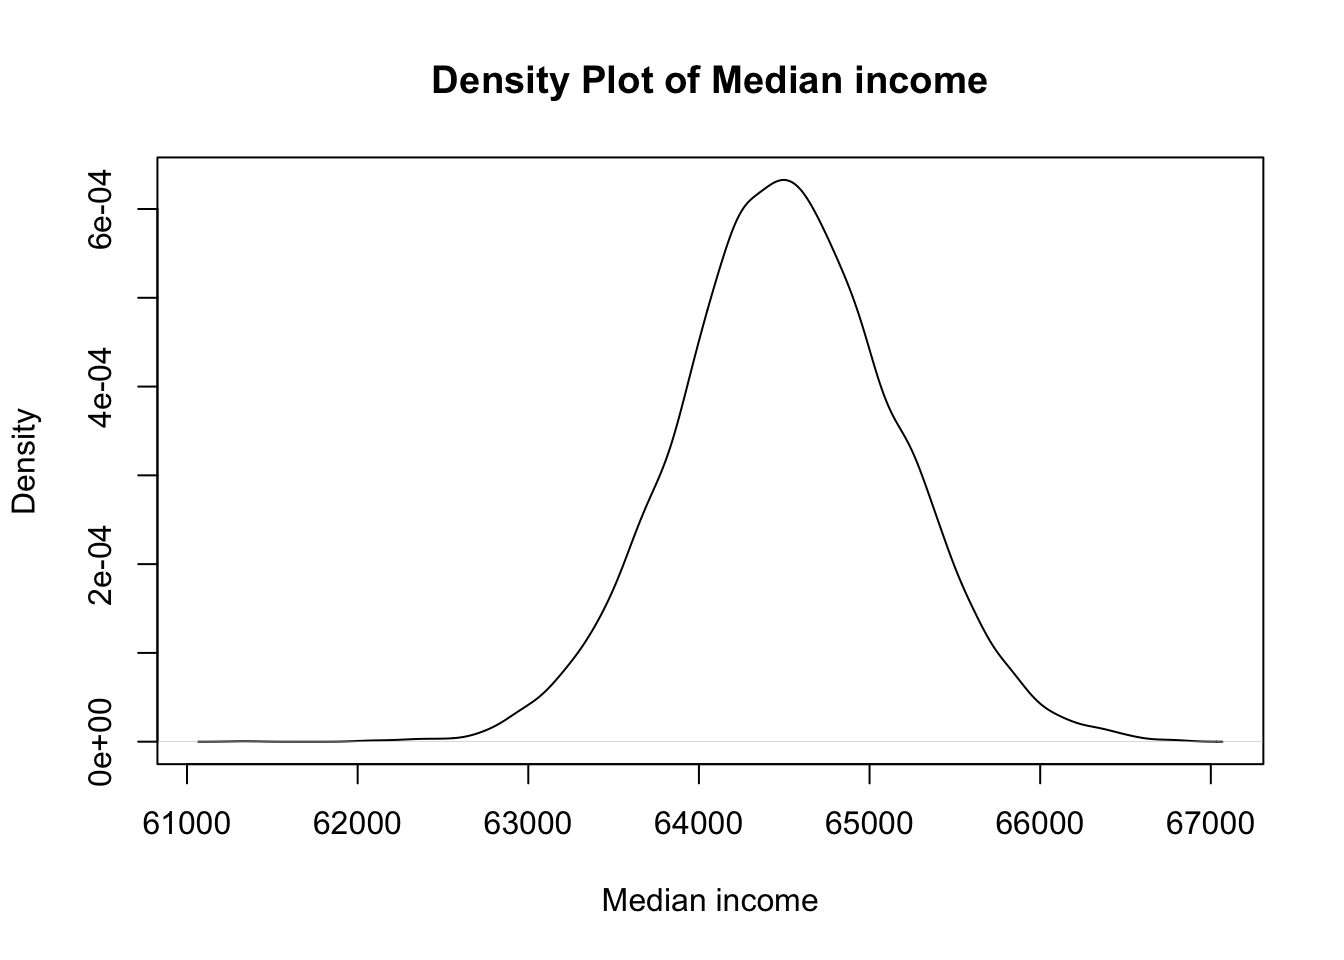
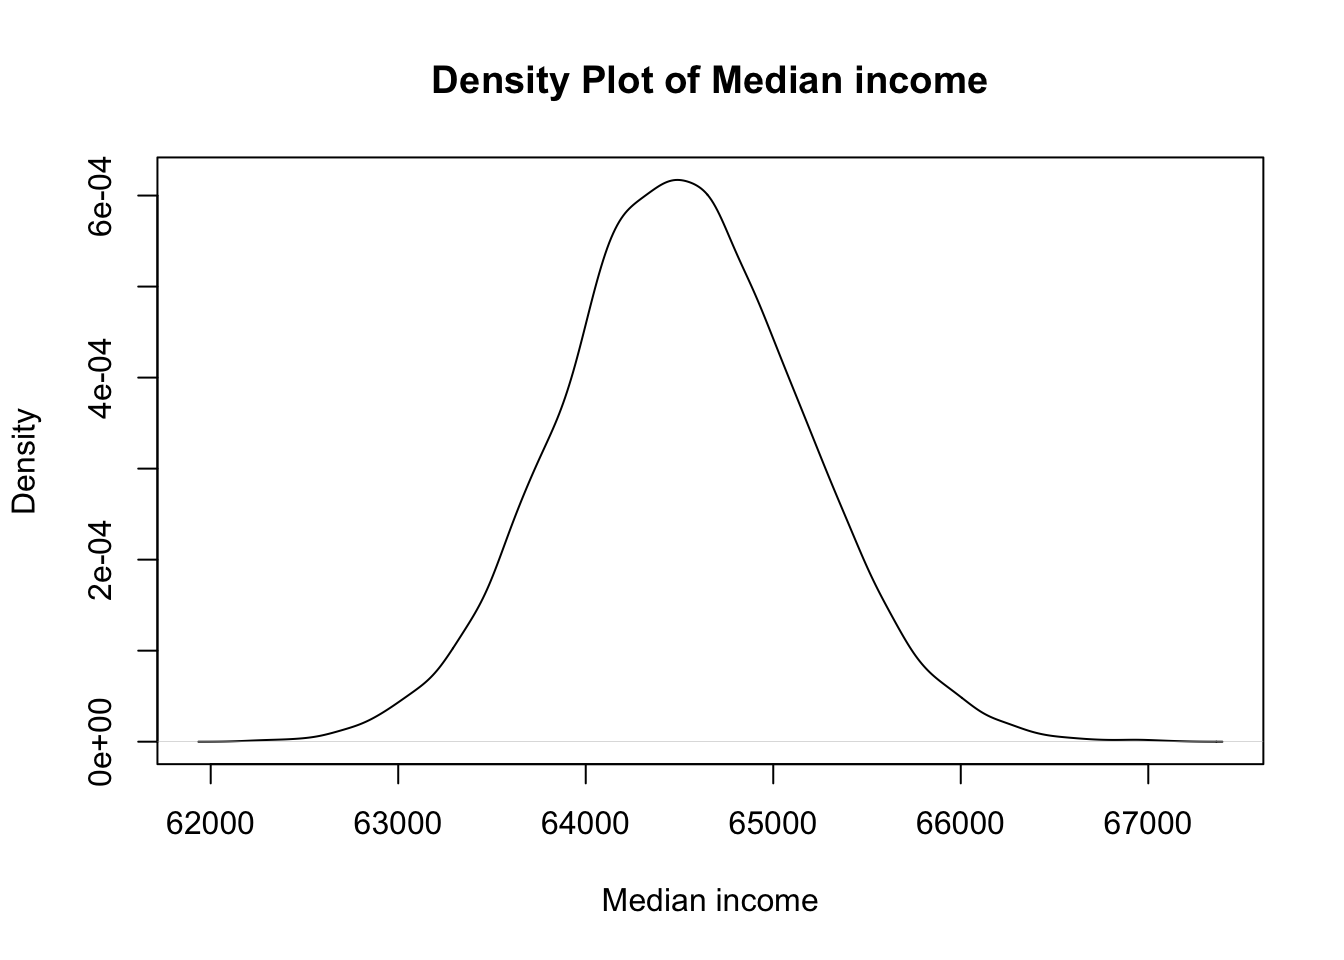
712245 pyten

diff --git a/docs/Education technology/skill.html b/docs/Education technology/skill.html
@@ -1753,77 +1753,31 @@ cookieconsent.run({
 </header>
 
 
-<div class="callout callout-style-default callout-tip callout-titled">
-<div class="callout-header d-flex align-content-center">
-<div class="callout-icon-container">
-<i class="callout-icon"></i>
-</div>
-<div class="callout-title-container flex-fill">
-Tip
-</div>
-</div>
-<div class="callout-body-container callout-body">
-<p>An enquiry in to Doto’s 5 step and Peyton’s 4 step methods</p>
-</div>
-</div>
-<p>Acquisition of <code>procedures skills</code> is an important element if not the most important in medical education. Traditionally <code>procedures skills</code> are taught using a ‘‘see one - do one’’ approach. This is referred to as Halsted’s teaching approach, which is based on the surgeon <code>Halsted (1904)</code>. Recently two new teaching approaches for the acquisition of procedural skills were described.</p>
-<p>A stepwise <code>Skill</code> teaching approach was presented by George in the meeting of American College of Surgeons, 1997 and later published by George &amp; Doto in 2001. Originally, it was developed as an educational technique to support the American College of Surgeon’s Advanced Trauma Life Support course. <span style="color: blue">George and Doto</span> used five steps. They based their teaching approach on Simpson’s taxonomy of the psychomotor domain (Simpson, 1966) . The steps are</p>
-<div class="callout callout-style-default callout-note callout-titled">
-<div class="callout-header d-flex align-content-center">
-<div class="callout-icon-container">
-<i class="callout-icon"></i>
-</div>
-<div class="callout-title-container flex-fill">
-Simpson
-</div>
-</div>
-<div class="callout-body-container callout-body">
-<ul>
-<li>Overview: Why and how the skill is important</li>
-<li>demonstration</li>
-<li>The preceptor then repeats the procedure</li>
-<li>Students talk through the skill</li>
-<li>performance.</li>
-</ul>
-</div>
-</div>
-<p>If students have a problem learning a skill, the preceptor will need to identify which of the following reasons may be underlying their performance deficit.</p>
-<ul>
-<li><p>Learner Trait Ability</p>
-<blockquote class="blockquote">
-<p>Learner trait ability is the inherent inability of the learner to perform the task because the learner may not possess the strength, fine motor coordination, or the fine motor skills necessary to do the task.</p>
-</blockquote></li>
-<li><p>Inadequate/Inappropriate Task Description and/or Demonstration</p></li>
-<li><p>Imprinting of Previous Incorrect or Obsolete Performance</p></li>
-<li><p>Improper Correction/ Reinforcement</p></li>
-<li><p>Affective Factors</p></li>
-<li><p>Inaccurate Learner Perception of Performance</p></li>
-</ul>
-<p>If the preceptor recognizes any of these problems, corrective actions can be initiated. Skill teaching need not be a time-intensive process if the preceptor will learn this quick and easy five-step method. While going through these five steps may seem lengthy, the result is that <code>the preceptor will spend less time observing and corrrecting performance problems and will ensure a better learning environment.</code></p>
-<p>Peyton’s teaching approach is also a stepwise method with following four steps: :</p>
-<div class="callout callout-style-default callout-note callout-titled">
-<div class="callout-header d-flex align-content-center">
-<div class="callout-icon-container">
-<i class="callout-icon"></i>
-</div>
-<div class="callout-title-container flex-fill">
-Peyton
-</div>
-</div>
-<div class="callout-body-container callout-body">
-<ul>
-<li>demonstration</li>
-<li>deconstruction</li>
-<li>comprehension and</li>
-<li>performance.</li>
-</ul>
-</div>
-</div>
-<p>Within Peyton’s teaching approach, two of the five steps are collated into a single step.</p>
-<div class="quarto-video ratio ratio-16x9"><iframe data-external="1" src="https://www.youtube.com/embed/iXe1btHlgLQ" title="" frameborder="0" allow="accelerometer; autoplay; clipboard-write; encrypted-media; gyroscope; picture-in-picture" allowfullscreen=""></iframe></div>
-<p><strong>Video showing Mr.&nbsp;J.W. Rodney Peyton FRCS an accomplished <code>consultant trauma surgeon</code>, author and trainer talking about his concepts.</strong></p>
+<p>Acquisition of procedural skills is a critical element in medical education. Traditionally, procedural skills are taught using a ‘‘see one - do one’’ approach, based on the Halsted’s teaching model (1904). Recently, two new teaching methods for the acquisition of procedural skills have been described:</p>
+<section id="george-and-dotos-5-step-method" class="level4">
+<h4 class="anchored" data-anchor-id="george-and-dotos-5-step-method">George and Doto’s 5-Step Method:</h4>
+<ol type="1">
+<li><strong>Overview</strong>: Explains why and how the skill is important.</li>
+<li><strong>Demonstration</strong>: The preceptor performs the procedure.</li>
+<li><strong>Students Talk Through the Skill</strong>: The learner verbalizes the steps involved in the procedure.</li>
+<li><strong>Performance</strong>: The learner performs the procedure under supervision.</li>
+<li><strong>Assessment of Performance</strong>: Identifies issues affecting learner’s performance, such as inherent ability, inappropriate task description, previous incorrect techniques, and affective factors. Corrective actions can be initiated based on the identified issues.</li>
+</ol>
+<p><em>This method is based on Simpson’s taxonomy of the psychomotor domain, focusing on physical skills development. It was initially developed as an educational technique to support the American College of Surgeons’ Advanced Trauma Life Support course in 2001</em></p>
+</section>
+<section id="peytons-4-step-method" class="level4">
+<h4 class="anchored" data-anchor-id="peytons-4-step-method">Peyton’s 4-Step Method:</h4>
+<ol type="1">
+<li><strong>Demonstration</strong>: The preceptor demonstrates the skill.</li>
+<li><strong>Deconstruction</strong>: The procedure is broken down into parts.</li>
+<li><strong>Comprehension</strong>: The learner understands the steps and rationale behind the procedure.</li>
+<li><strong>Performance</strong>: The learner performs the procedure under supervision.</li>
+</ol>
+<p><em>Peyton’s method differs by combining the demonstration and deconstruction steps, emphasizing the learner’s comprehension and ability to perform the procedure independently</em></p>
+<p><strong>Video showing Mr.&nbsp;J.W. Rodney Peyton FRCS discussing his concepts</strong>: </p><div class="quarto-video ratio ratio-16x9"><iframe data-external="1" src="https://www.youtube.com/embed/iXe1btHlgLQ" title="" frameborder="0" allow="accelerometer; autoplay; clipboard-write; encrypted-media; gyroscope; picture-in-picture" allowfullscreen=""></iframe></div><p></p>
 
 
+</section>
 
 <a onclick="window.scrollTo(0, 0); return false;" role="button" id="quarto-back-to-top"><i class="bi bi-arrow-up"></i> Back to top</a></main> <!-- /main -->
 <script id="quarto-html-after-body" type="application/javascript">

diff --git a/docs/posts/montecarlo.html b/docs/posts/montecarlo.html
@@ -1977,7 +1977,7 @@ Income distribution is not normal
 </details>
 <div class="cell-output cell-output-stdout">
 <pre><code>     Min.   1st Qu.    Median      Mean   3rd Qu.      Max. 
-   214905    295528    343552    550623    437869 237359054 </code></pre>
+   213950    295711    342656    621727    440598 644718137 </code></pre>
 </div>
 <details open="" class="code-fold">
 <summary>Code</summary>
@@ -1985,7 +1985,7 @@ Income distribution is not normal
 </details>
 <div class="cell-output cell-output-stdout">
 <pre><code>   Min. 1st Qu.  Median    Mean 3rd Qu.    Max. 
-  61337   64094   64510   64518   64940   66798 </code></pre>
+  62208   64078   64499   64509   64936   67121 </code></pre>
 </div>
 <details open="" class="code-fold">
 <summary>Code</summary>
@@ -1993,7 +1993,7 @@ Income distribution is not normal
 </details>
 <div class="cell-output cell-output-stdout">
 <pre><code>     Min.   1st Qu.    Median      Mean   3rd Qu.      Max. 
-1.004e+06 3.326e+06 5.675e+06 2.558e+07 1.187e+07 2.370e+10 </code></pre>
+1.082e+06 3.314e+06 5.635e+06 3.280e+07 1.215e+07 6.444e+10 </code></pre>
 </div>
 </div>
 </section>

diff --git a/docs/Biomedical/Research Methodology/wrangling.html b/docs/Biomedical/Research Methodology/wrangling.html
@@ -3271,12 +3271,12 @@ Record
 <div class="cell-output cell-output-stdout">
 <pre><code>     age   sex  class
    &lt;int&gt; &lt;int&gt; &lt;fctr&gt;
-1:     1     1  child
+1:     1     0  child
 2:     2     1  child
 3:     3     1  child
 4:     4     0  child
 5:     5     1  child
-6:     6     1  child</code></pre>
+6:     6     0  child</code></pre>
 </div>
 </div>
 <section id="making-data-wide" class="level3">
@@ -3294,12 +3294,12 @@ Record
 <pre><code>Key: &lt;age&gt;
      age      0      1
    &lt;int&gt; &lt;fctr&gt; &lt;fctr&gt;
-1:     1   &lt;NA&gt;  child
+1:     1  child   &lt;NA&gt;
 2:     2   &lt;NA&gt;  child
 3:     3   &lt;NA&gt;  child
 4:     4  child   &lt;NA&gt;
 5:     5   &lt;NA&gt;  child
-6:     6   &lt;NA&gt;  child</code></pre>
+6:     6  child   &lt;NA&gt;</code></pre>
 </div>
 </div>
 
